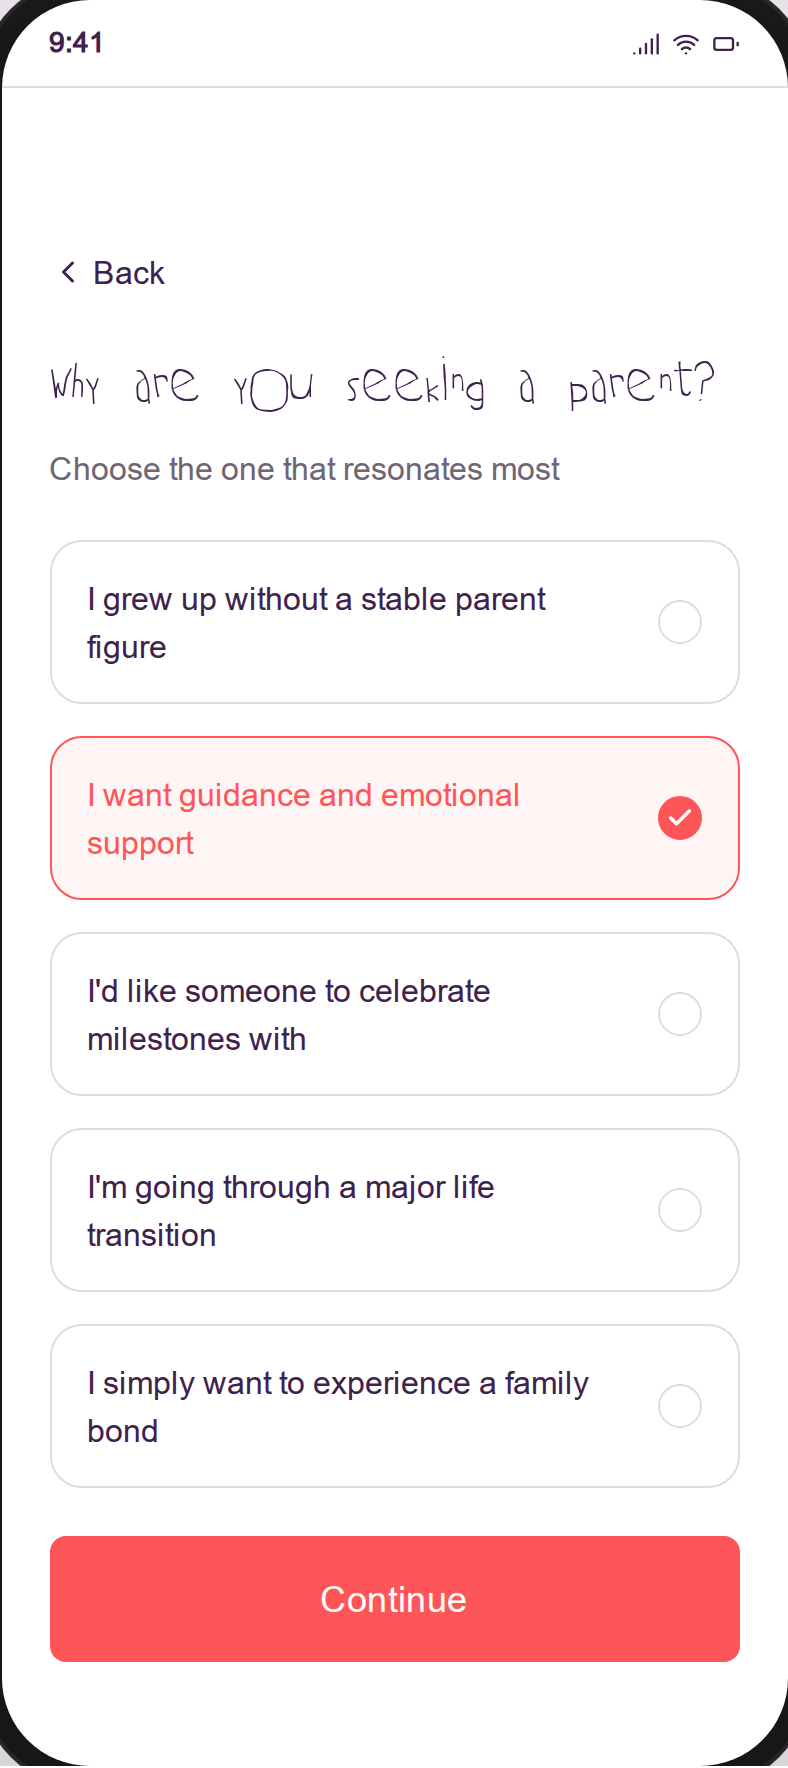
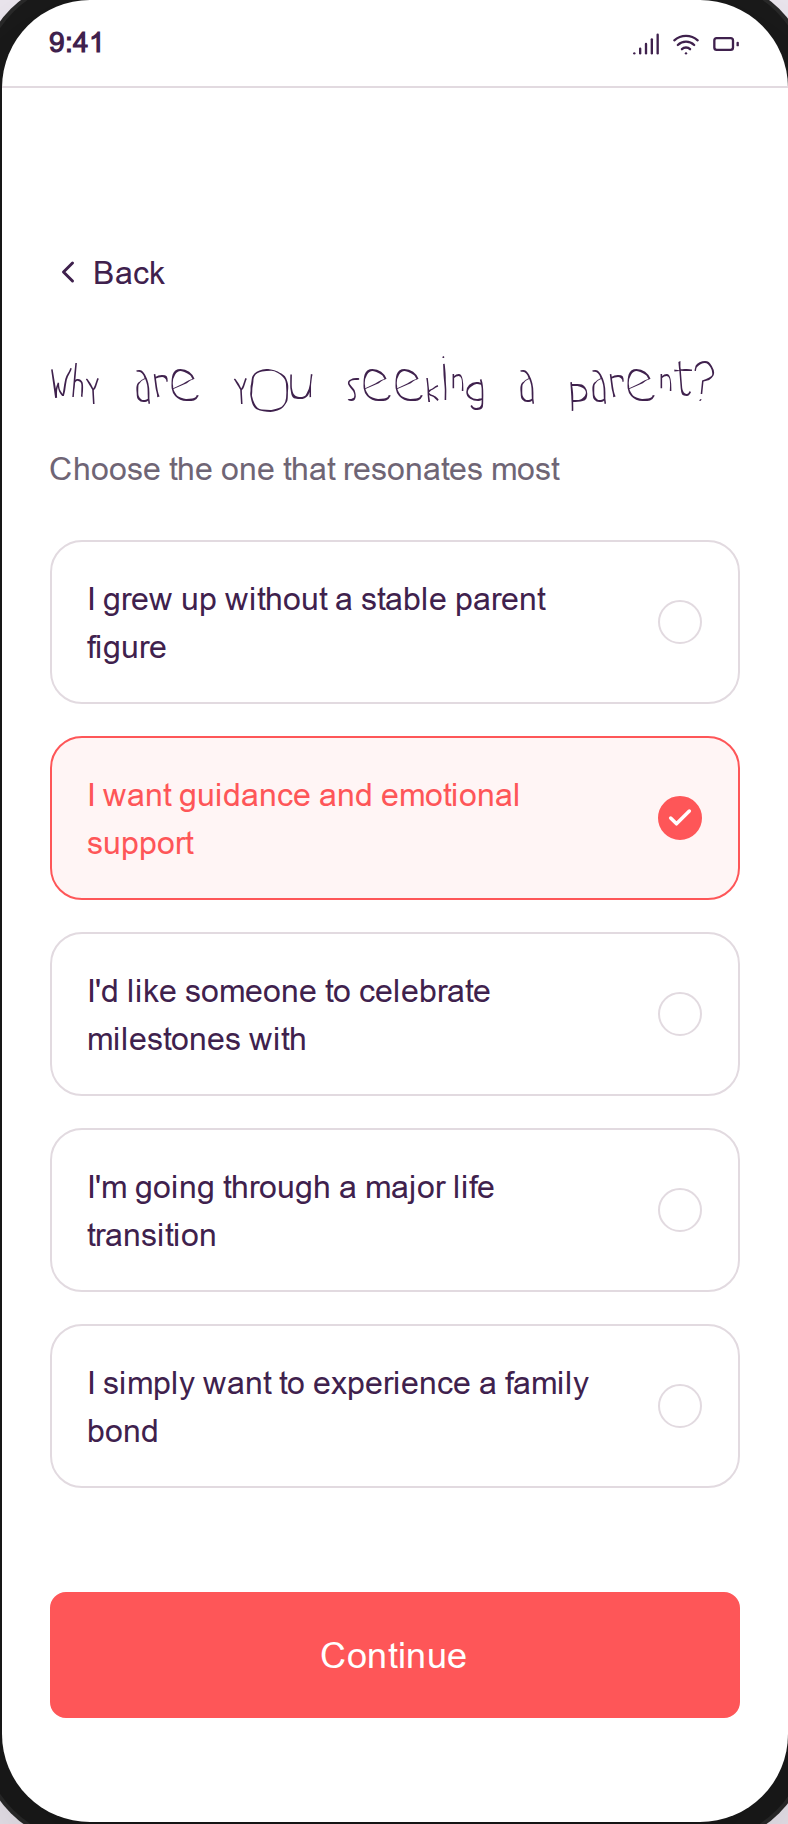
Replace space-between onboarding layout with handheld stacking
Add screen-pad--handheld for top-aligned forms and fixed-gap primary actions
across profile setup, discovery, community, and prototype flows; refresh
screen gallery captures.

diff --git a/web/src/theme/screens.css b/web/src/theme/screens.css
@@ -75,8 +75,21 @@
   text-align: center;
 }
 
-.screen-pad--between {
-  justify-content: space-between;
+/* One-handed forms: stack from top; primary actions sit a fixed gap below content. */
+.screen-pad--handheld {
+  justify-content: flex-start;
+}
+
+.screen-pad--handheld > .mobile-onboarding__content,
+.screen-pad--handheld > .connection-success__content {
+  flex-shrink: 0;
+}
+
+.screen-pad--handheld > .aymm-button,
+.screen-pad--handheld > .mobile-onboarding__actions,
+.screen-pad--handheld > .connection-success__actions {
+  margin-top: 1.75rem;
+  flex-shrink: 0;
 }
 
 .screen-pad--auth {

diff --git a/web/src/pages/prototype/AdoptionApproved.jsx b/web/src/pages/prototype/AdoptionApproved.jsx
@@ -12,7 +12,7 @@ export default function AdoptionApproved() {
 
   return (
     <PrototypeScreen showBottomNav={false}>
-      <div className="screen-pad screen-pad--between mobile-onboarding connection-success prototype-success">
+      <div className="screen-pad screen-pad--handheld mobile-onboarding connection-success prototype-success">
         <div className="connection-success__content">
           <div className="prototype-success__avatars" aria-hidden="true">
             <img src={match.userPhoto} alt="" className="prototype-success__avatar" />

diff --git a/web/src/pages/community/TableConfirmation.jsx b/web/src/pages/community/TableConfirmation.jsx
@@ -9,7 +9,7 @@ export default function TableConfirmation() {
 
   return (
     <CommunityScreen showBottomNav={false}>
-      <div className="screen-pad screen-pad--between mobile-onboarding connection-success">
+      <div className="screen-pad screen-pad--handheld mobile-onboarding connection-success">
         <div className="connection-success__content">
           <div className="connection-success__hero">
             <div className="connection-success__pulse community-confirm__icon" aria-hidden="true">

diff --git a/web/src/pages/prototype/RegisterTableFull.jsx b/web/src/pages/prototype/RegisterTableFull.jsx
@@ -21,7 +21,7 @@ export default function RegisterTableFull() {
 
   return (
     <PrototypeScreen showBottomNav={false} bodyClassName="mobile-onboarding-scroll">
-      <div className="screen-pad screen-pad--between mobile-onboarding mobile-onboarding--scroll">
+      <div className="screen-pad screen-pad--handheld mobile-onboarding mobile-onboarding--scroll">
         <div className="mobile-onboarding__content">
           <BackButton to={withPreviewQuery('/Community/family-table-listing')} />
 

diff --git a/web/src/pages/community/RegisterTable.jsx b/web/src/pages/community/RegisterTable.jsx
@@ -19,7 +19,7 @@ export default function RegisterTable() {
 
   return (
     <CommunityScreen showBottomNav={false} bodyClassName="mobile-onboarding-scroll">
-      <div className="screen-pad screen-pad--between mobile-onboarding mobile-onboarding--scroll">
+      <div className="screen-pad screen-pad--handheld mobile-onboarding mobile-onboarding--scroll">
         <div className="mobile-onboarding__content">
           <BackButton to={withPreviewQuery('/Community/family-table-listing')} />
 

diff --git a/web/src/pages/prototype/ReligionSelector.jsx b/web/src/pages/prototype/ReligionSelector.jsx
@@ -19,7 +19,7 @@ export default function ReligionSelector() {
 
   return (
     <PrototypeScreen showBottomNav={false} bodyClassName="mobile-onboarding-scroll">
-      <div className="screen-pad screen-pad--between mobile-onboarding mobile-onboarding--scroll">
+      <div className="screen-pad screen-pad--handheld mobile-onboarding mobile-onboarding--scroll">
         <div className="mobile-onboarding__content">
           <BackButton to={withPreviewQuery('/Prototype/profile-carousel')} />
 

diff --git a/web/src/pages/prototype/AymmFamilyMatch.jsx b/web/src/pages/prototype/AymmFamilyMatch.jsx
@@ -11,7 +11,7 @@ export default function AymmFamilyMatch() {
 
   return (
     <PrototypeScreen showBottomNav={false}>
-      <div className="screen-pad screen-pad--between mobile-onboarding connection-success prototype-success">
+      <div className="screen-pad screen-pad--handheld mobile-onboarding connection-success prototype-success">
         <div className="connection-success__content">
           <img src={match.photo} alt="" className="prototype-family-match__photo" />
 

diff --git a/web/src/components/profile-setup/steps/QuestionsStep.jsx b/web/src/components/profile-setup/steps/QuestionsStep.jsx
@@ -22,7 +22,7 @@ export default function QuestionsStep() {
 
   return (
     <MobileScreen bodyClassName="mobile-onboarding-scroll">
-      <div className="screen-pad mobile-onboarding mobile-onboarding--scroll">
+      <div className="screen-pad screen-pad--handheld mobile-onboarding mobile-onboarding--scroll">
         <div className="mobile-onboarding__content">
           <BackButton to="/ProfileSetup/religion" />
           <MobileOnboardingProgress step={7} />

diff --git a/web/src/components/profile-setup/steps/ReviewStep.jsx b/web/src/components/profile-setup/steps/ReviewStep.jsx
@@ -91,7 +91,7 @@ export default function ReviewStep() {
 
   return (
     <MobileScreen bodyClassName="mobile-onboarding-scroll">
-      <div className="screen-pad mobile-onboarding mobile-onboarding--scroll">
+      <div className="screen-pad screen-pad--handheld mobile-onboarding mobile-onboarding--scroll">
         <div className="mobile-onboarding__content">
           <BackButton to="/ProfileSetup/questions" />
           <MobileOnboardingProgress step={8} />

diff --git a/web/src/pages/discovery/ConnectionSuccess.jsx b/web/src/pages/discovery/ConnectionSuccess.jsx
@@ -12,7 +12,7 @@ export default function ConnectionSuccess() {
 
   return (
     <MobileScreen>
-      <div className="screen-pad screen-pad--between mobile-onboarding connection-success">
+      <div className="screen-pad screen-pad--handheld mobile-onboarding connection-success">
         <div className="connection-success__content">
           <div className="connection-success__hero">
             <div className="connection-success__pulse" aria-hidden="true">

diff --git a/web/src/pages/discovery/ReligionInfo.jsx b/web/src/pages/discovery/ReligionInfo.jsx
@@ -13,7 +13,7 @@ export default function ReligionInfo() {
 
   return (
     <MobileScreen bodyClassName="mobile-onboarding-scroll">
-      <div className="screen-pad screen-pad--between mobile-onboarding mobile-onboarding--scroll">
+      <div className="screen-pad screen-pad--handheld mobile-onboarding mobile-onboarding--scroll">
         <div className="mobile-onboarding__content">
           <BackButton to={withPreviewQuery('/Discovery/family-questions')} />
 

diff --git a/web/src/pages/discovery/Recommend.jsx b/web/src/pages/discovery/Recommend.jsx
@@ -24,7 +24,7 @@ export default function Recommend() {
 
   return (
     <MobileScreen bodyClassName="mobile-onboarding-scroll">
-      <div className="screen-pad screen-pad--between mobile-onboarding mobile-onboarding--scroll">
+      <div className="screen-pad screen-pad--handheld mobile-onboarding mobile-onboarding--scroll">
         <div className="mobile-onboarding__content">
           <BackButton to={withPreviewQuery('/Discovery/daughter-profile')} />
 
